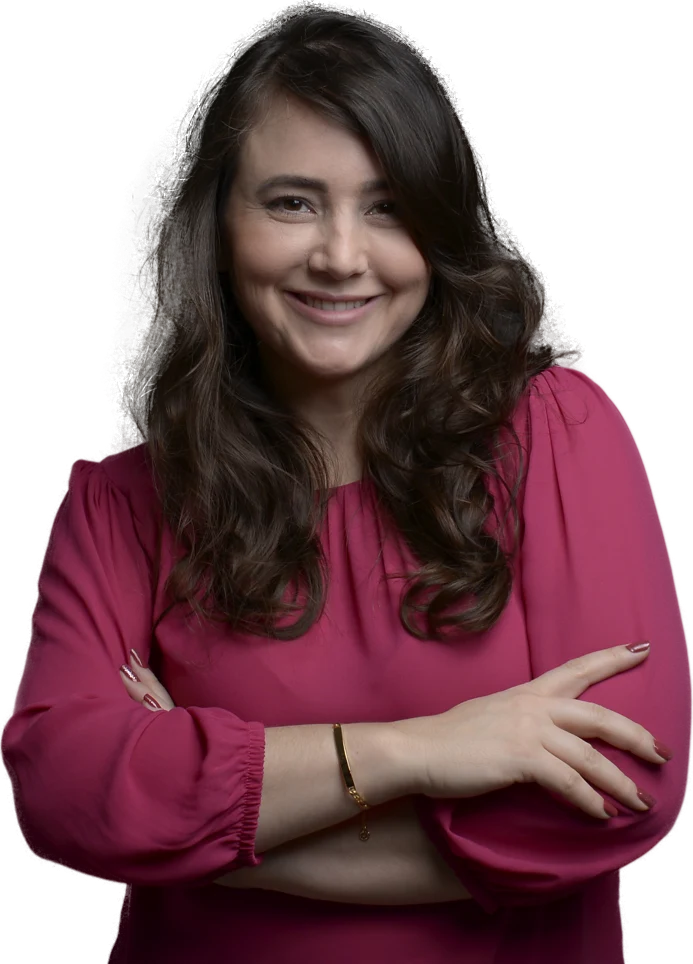
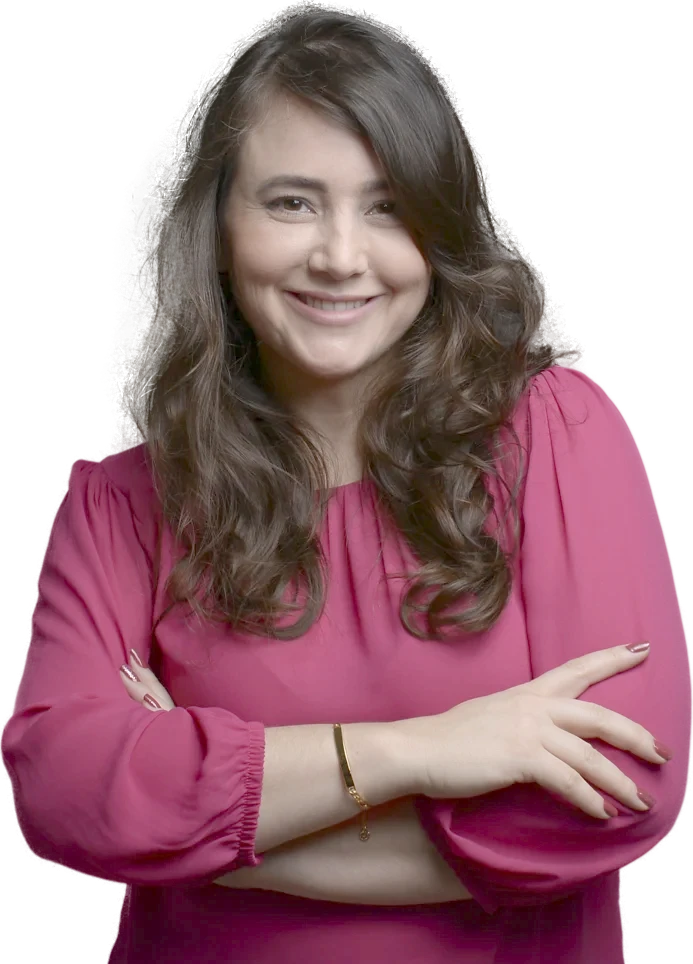
black 2026: ajustes da Day nas iscas (foto mais clara, acesse o ebook)

diff --git a/2026-10-26-black-2026/clube-do-bebe/sono-ebook/index.html b/2026-10-26-black-2026/clube-do-bebe/sono-ebook/index.html
@@ -8,7 +8,7 @@
 <meta name="viewport" content="width=device-width,initial-scale=1,viewport-fit=cover">
 <meta name="robots" content="noindex,nofollow">
 <title>Clube do Bebê | Ebook do sono do bebê no berço grátis</title>
-<meta name="description" content="Baixe grátis o ebook da Day sobre o sono do bebê no berço e entre no Clube do Bebê.">
+<meta name="description" content="Acesse grátis o ebook sobre o sono do bebê no berço e entre no Clube do Bebê.">
 <meta name="theme-color" content="#0C0710">
 <link rel="preconnect" href="https://fonts.googleapis.com"><link rel="preconnect" href="https://fonts.gstatic.com" crossorigin>
 <link rel="stylesheet" href="https://fonts.googleapis.com/css2?family=Montserrat:ital,wght@0,500;0,700;0,800;0,900;1,800&family=Nunito+Sans:wght@400;600;700&display=swap">
@@ -273,10 +273,10 @@ footer{padding:26px 18px calc(26px + env(safe-area-inset-bottom));text-align:cen
     </div>
     <div class="hero-txt">
       <span class="tag-aula">Ebook gratuito no grupo</span>
-      <h1>Baixe o ebook da Day: <span class="mag">o que ninguém te contou sobre o sono do bebê no berço</span></h1>
+      <h1>Acesse o ebook: <span class="mag">o que ninguém te contou sobre o sono do bebê no berço</span></h1>
       <p class="sub">Os 5 principais motivos do bebê não dormir no berço, e o que fazer em cada um. O ebook fica na descrição do grupo do Clube do Bebê, e lá dentro você ainda assiste à aula de autonomia de sono da Day.</p>
       <form class="form" id="cadastro" data-lead="clube-do-bebe" data-versao="sono-ebook" data-destino="../entrando-sono-ebook/" novalidate>
-        <span class="data">O ebook está na descrição do grupo. Preencha abaixo pra baixar grátis:</span>
+        <span class="data">O ebook está na descrição do grupo. Preencha abaixo pra acessar grátis:</span>
         <input class="hp" name="site" tabindex="-1" autocomplete="off" aria-hidden="true">
         <input id="whats1" name="whatsapp" placeholder="Seu WhatsApp com DDD" inputmode="tel" autocomplete="tel-national" required aria-label="Seu WhatsApp com DDD">
         <span class="erro" role="alert"></span>
@@ -352,7 +352,7 @@ footer{padding:26px 18px calc(26px + env(safe-area-inset-bottom));text-align:cen
 <section class="final" id="entrar">
   <div class="wrap">
     <form class="form" data-lead="clube-do-bebe" data-versao="sono-ebook-rodape" data-destino="../entrando-sono-ebook/" novalidate>
-      <h3>Entre no Clube do Bebê e baixe o ebook grátis</h3>
+      <h3>Entre no Clube do Bebê e acesse o ebook grátis</h3>
       <input class="hp" name="site" tabindex="-1" autocomplete="off" aria-hidden="true">
       <input id="whats2" name="whatsapp" placeholder="Seu WhatsApp com DDD" inputmode="tel" autocomplete="tel-national" required aria-label="Seu WhatsApp com DDD">
       <span class="erro" role="alert"></span>

diff --git a/2026-10-26-black-2026/clube-do-bebe/amamentacao-ebook/index.html b/2026-10-26-black-2026/clube-do-bebe/amamentacao-ebook/index.html
@@ -8,7 +8,7 @@
 <meta name="viewport" content="width=device-width,initial-scale=1,viewport-fit=cover">
 <meta name="robots" content="noindex,nofollow">
 <title>Clube do Bebê | Ebook: por que meu bebê parece não saciar no seio?</title>
-<meta name="description" content="Baixe o ebook da Day sobre amamentação e entre no Clube do Bebê.">
+<meta name="description" content="Acesse o ebook sobre amamentação e entre no Clube do Bebê.">
 <meta name="theme-color" content="#0C0710">
 <link rel="preconnect" href="https://fonts.googleapis.com"><link rel="preconnect" href="https://fonts.gstatic.com" crossorigin>
 <link rel="stylesheet" href="https://fonts.googleapis.com/css2?family=Montserrat:ital,wght@0,500;0,700;0,800;0,900;1,800&family=Nunito+Sans:wght@400;600;700&display=swap">
@@ -273,10 +273,10 @@ footer{padding:26px 18px calc(26px + env(safe-area-inset-bottom));text-align:cen
     </div>
     <div class="hero-txt">
       <span class="tag-aula">Ebook gratuito no grupo</span>
-      <h1>Baixe o ebook da Day: <span class="mag">por que meu bebê parece não saciar no seio?</span></h1>
+      <h1>Acesse o ebook: <span class="mag">por que meu bebê parece não saciar no seio?</span></h1>
       <p class="sub">Por que ele mama por horas e continua com fome, e como ajustar isso já na próxima mamada. O ebook fica na descrição do grupo do Clube do Bebê, e lá dentro você ainda assiste à aula da Day sobre amamentação.</p>
       <form class="form" id="cadastro" data-lead="clube-do-bebe" data-versao="amamentacao-ebook" data-destino="../entrando-amamentacao-ebook/" novalidate>
-        <span class="data">O ebook está na descrição do grupo. Preencha abaixo pra baixar grátis:</span>
+        <span class="data">O ebook está na descrição do grupo. Preencha abaixo pra acessar grátis:</span>
         <input class="hp" name="site" tabindex="-1" autocomplete="off" aria-hidden="true">
         <input id="whats1" name="whatsapp" placeholder="Seu WhatsApp com DDD" inputmode="tel" autocomplete="tel-national" required aria-label="Seu WhatsApp com DDD">
         <span class="erro" role="alert"></span>
@@ -352,7 +352,7 @@ footer{padding:26px 18px calc(26px + env(safe-area-inset-bottom));text-align:cen
 <section class="final" id="entrar">
   <div class="wrap">
     <form class="form" data-lead="clube-do-bebe" data-versao="amamentacao-ebook-rodape" data-destino="../entrando-amamentacao-ebook/" novalidate>
-      <h3>Entre no Clube do Bebê e baixe o ebook grátis</h3>
+      <h3>Entre no Clube do Bebê e acesse o ebook grátis</h3>
       <input class="hp" name="site" tabindex="-1" autocomplete="off" aria-hidden="true">
       <input id="whats2" name="whatsapp" placeholder="Seu WhatsApp com DDD" inputmode="tel" autocomplete="tel-national" required aria-label="Seu WhatsApp com DDD">
       <span class="erro" role="alert"></span>

diff --git a/2026-10-26-black-2026/black-maternity/versao-isca-ebook-paleta-v2/index.html b/2026-10-26-black-2026/black-maternity/versao-isca-ebook-paleta-v2/index.html
@@ -264,10 +264,10 @@ footer{padding:26px 18px calc(26px + env(safe-area-inset-bottom));text-align:cen
     </div>
     <div class="hero-txt">
       <span class="tag-aula">Ebook gratuito no grupo VIP</span>
-      <h1>Baixe grátis o <span class="mag">Enxoval Descomplicado</span>, o guia completo da Day para gestantes</h1>
-      <p class="sub">O ebook fica na descrição do grupo de gestantes, pronto pra baixar. E lá dentro você ainda assiste à aula exclusiva da Day e vê a Black Maternity antes de todo mundo.</p>
+      <h1>Acesse grátis o <span class="mag">Enxoval Descomplicado</span>, o guia completo para gestantes</h1>
+      <p class="sub">O ebook fica na descrição do grupo de gestantes, pronto pra acessar. E lá dentro você ainda assiste à aula exclusiva da Day e vê a Black Maternity antes de todo mundo.</p>
       <form class="form" id="cadastro" data-lead="black-maternity" data-versao="isca-ebook" data-destino="../entrando-ebook/" novalidate>
-        <span class="data">O ebook está na descrição do grupo. Preencha abaixo pra baixar grátis:</span>
+        <span class="data">O ebook está na descrição do grupo. Preencha abaixo pra acessar grátis:</span>
         <input class="hp" name="site" tabindex="-1" autocomplete="off" aria-hidden="true">
         <input id="whats1" name="whatsapp" placeholder="Seu WhatsApp com DDD" inputmode="tel" autocomplete="tel-national" required aria-label="Seu WhatsApp com DDD">
         <span class="erro" role="alert"></span>
@@ -343,7 +343,7 @@ footer{padding:26px 18px calc(26px + env(safe-area-inset-bottom));text-align:cen
 <section class="final" id="entrar">
   <div class="wrap">
     <form class="form" data-lead="black-maternity" data-versao="isca-ebook-rodape" data-destino="../entrando-ebook/" novalidate>
-      <h3>Entre no grupo VIP e baixe o ebook grátis</h3>
+      <h3>Entre no grupo VIP e acesse o ebook grátis</h3>
       <input class="hp" name="site" tabindex="-1" autocomplete="off" aria-hidden="true">
       <input id="whats2" name="whatsapp" placeholder="Seu WhatsApp com DDD" inputmode="tel" autocomplete="tel-national" required aria-label="Seu WhatsApp com DDD">
       <span class="erro" role="alert"></span>
